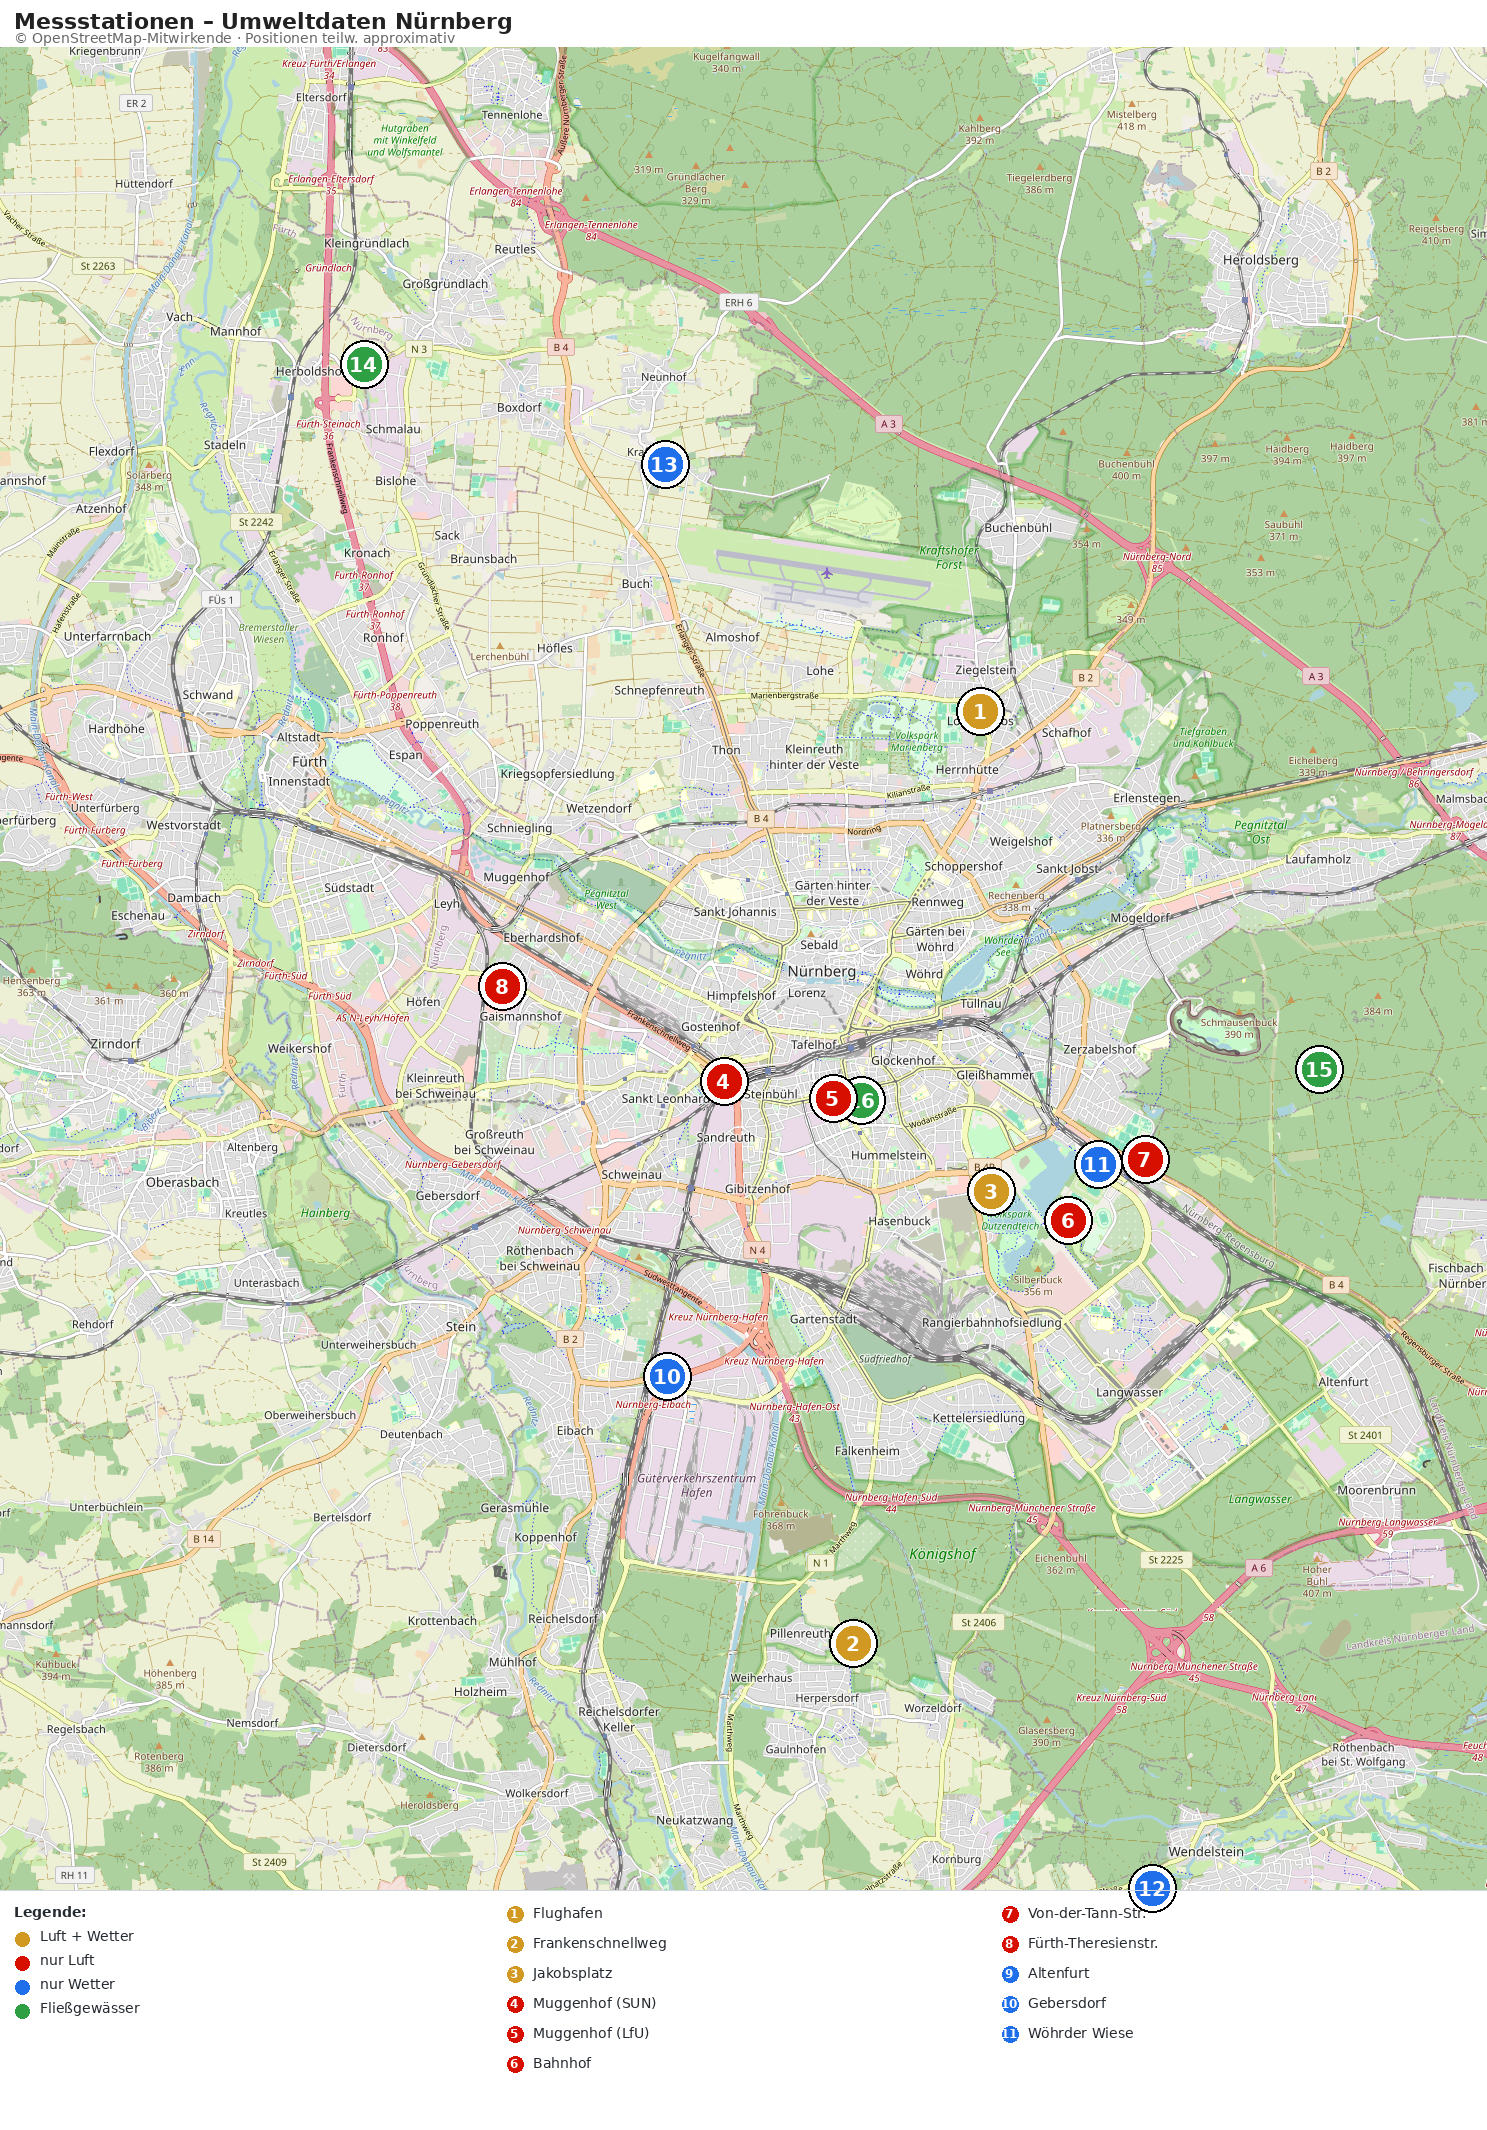
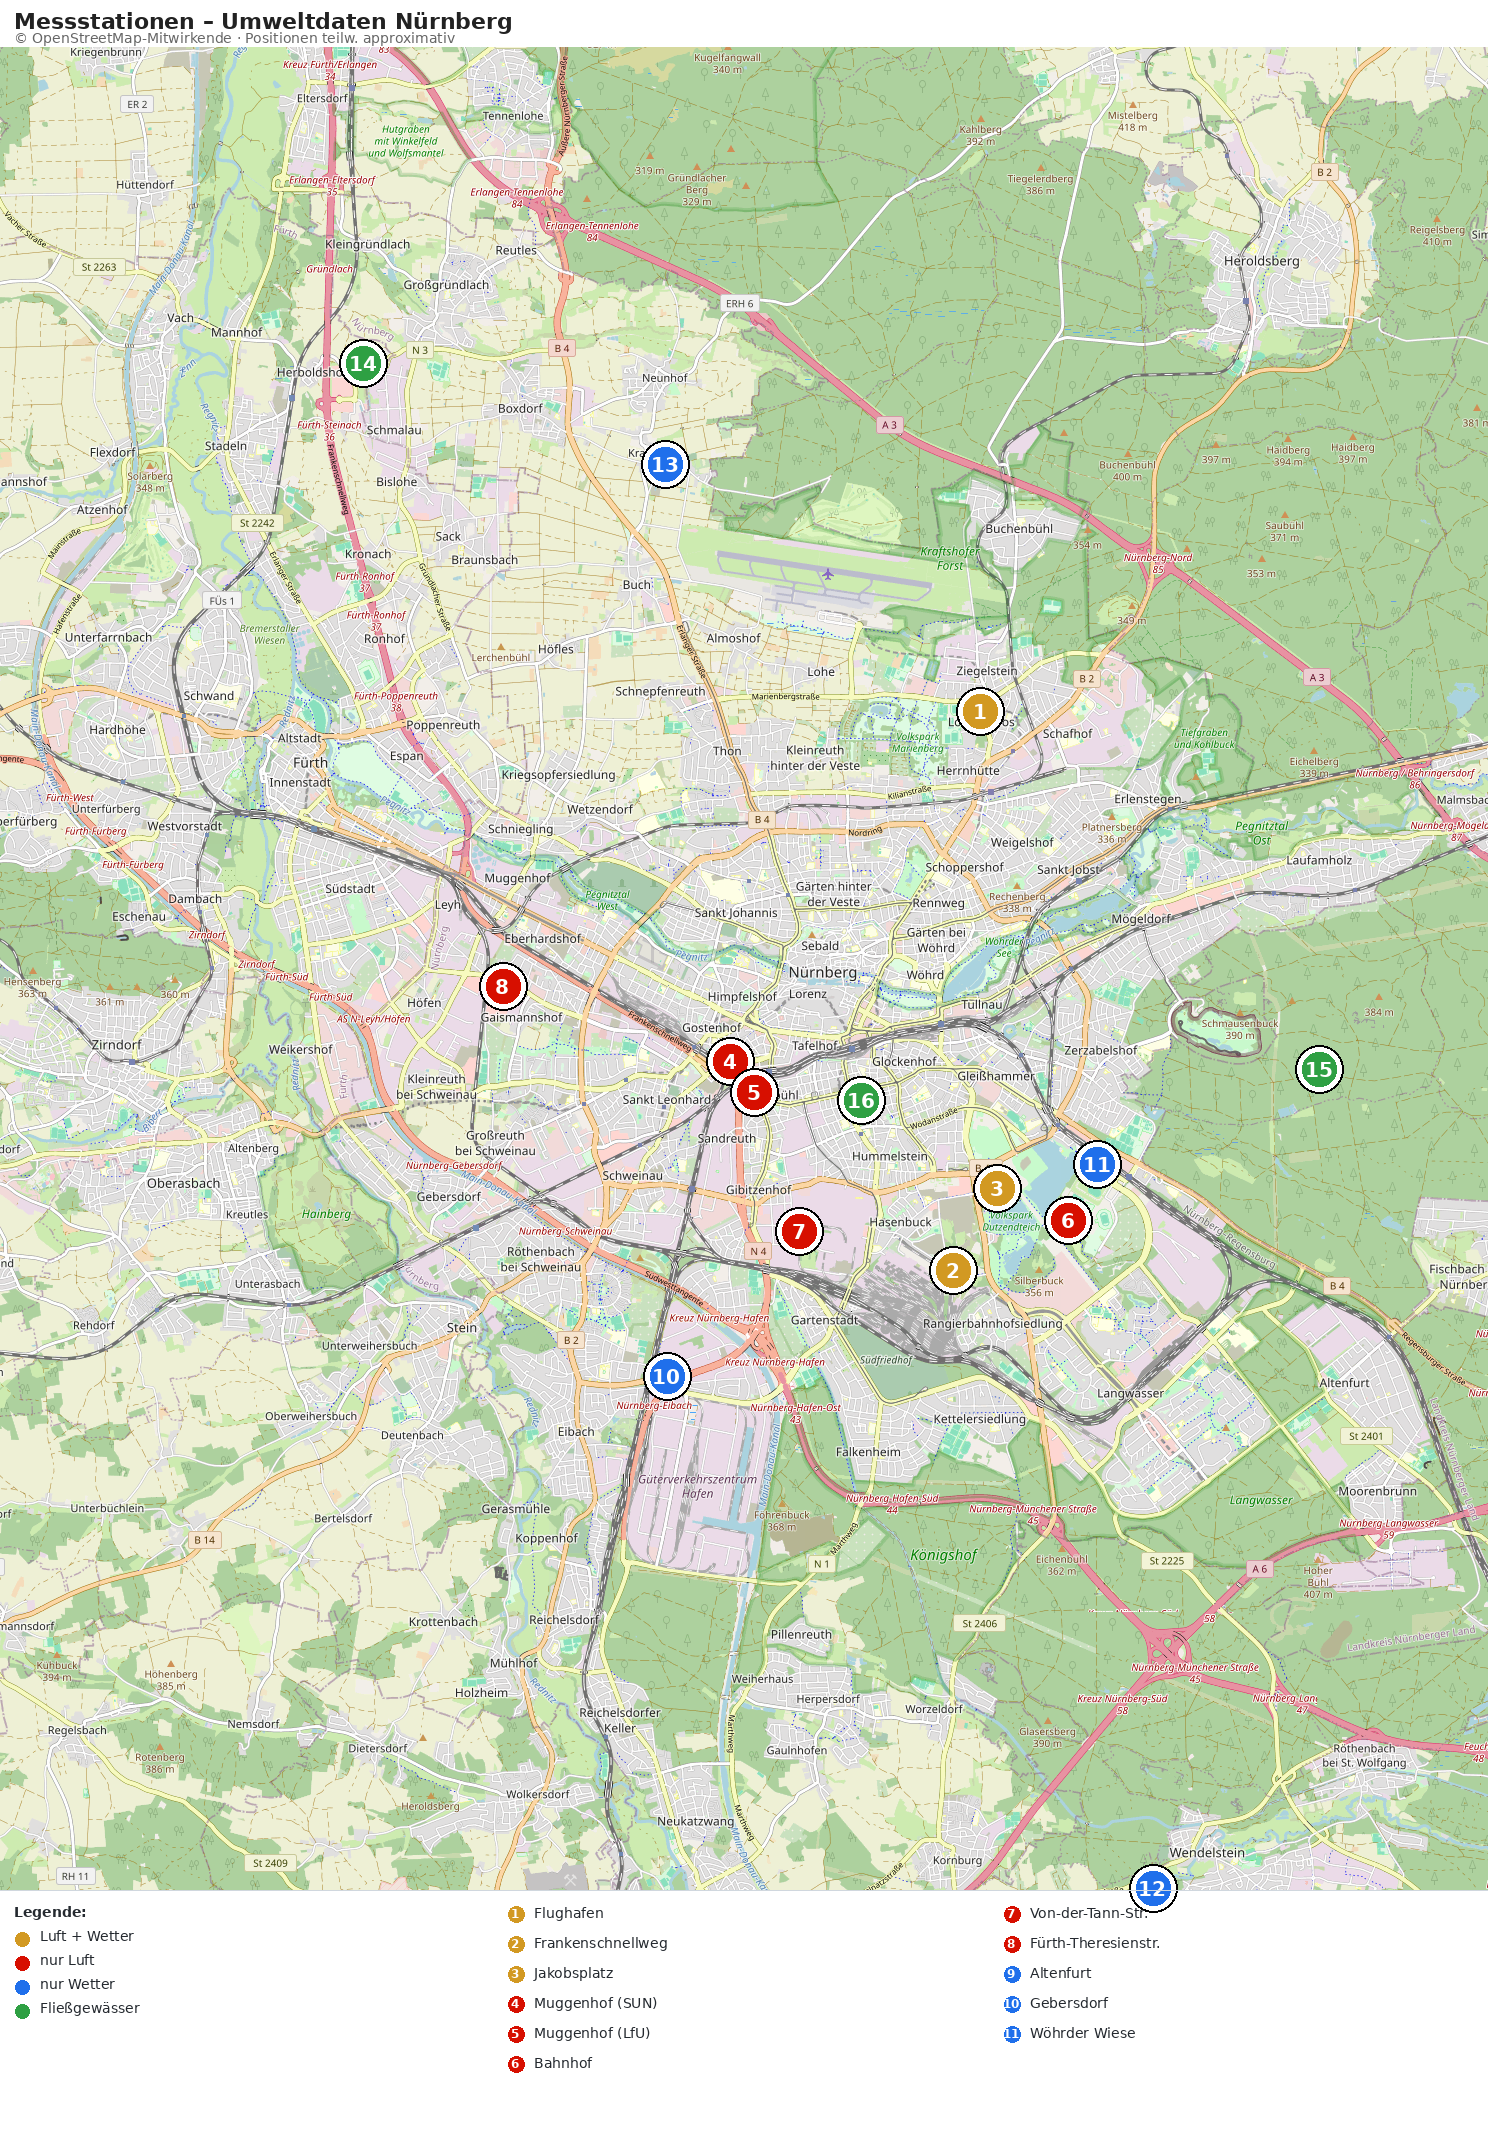
Docs: correct station coordinates and add official city layout plans
- Re-geocode stations via structured Nominatim queries; major fixes:
  Von-der-Tann-Str. (was misplaced east, actually west/Gaismannshof),
  Frankenschnellweg (was too far south), Muggenhof (now at SUN HQ
  Adolf-Braun-Str. 33).
- Regenerate the OSM map with the corrected coordinates.
- Add the two official station-layout JPEGs published by the City of
  Nuremberg (air + rain) as the authoritative position reference, linked
  from the README.

diff --git a/README.md b/README.md
@@ -38,6 +38,10 @@ Each sensor carries `last_measured` (the station's `date_entry`) and
   <img src="images/stations.png" alt="Übersicht der Messstationen in Nürnberg auf OpenStreetMap-Karte" width="720"/>
 </p>
 
+> Die Marker-Positionen sind teilweise approximativ (geocodiert). Die
+> autoritativen Lagepläne der Stadt Nürnberg finden sich unten im Abschnitt
+> *[Offizielle Lagepläne](#offizielle-lageplane)*.
+
 The table below shows which values each station currently provides. The
 integration creates exactly these sensors dynamically – `null` fields are
 skipped, so no "unknown" entities appear.
@@ -98,6 +102,20 @@ that website. There is no formal API contract, API key or rate-limit agreement;
 please use it fairly and do not poll more aggressively than necessary. The
 data itself is not covered by this repository's license and remains the property
 of the City of Nuremberg.
+
+## Offizielle Lagepläne
+
+Die Stadt Nürnberg veröffentlicht selbst schematische Pläne der Stationen.
+Diese sind die autoritative Quelle für die Standorte (Quelle:
+[nuernberg.de/internet/umweltdaten](https://www.nuernberg.de/internet/umweltdaten/),
+Stadtentwässerung und Umweltanalytik Nürnberg).
+
+<table align="center">
+  <tr>
+    <td align="center"><img src="images/stadt_lageplan_luft.jpg" alt="Lageplan Luftmessstationen (Stadt Nürnberg)" width="380"/><br><sub>Luftmessstationen (SUN &amp; LfU)</sub></td>
+    <td align="center"><img src="images/stadt_lageplan_regen.jpg" alt="Lageplan Regenmessstationen (Stadt Nürnberg)" width="380"/><br><sub>Wetter-/Niederschlagsstationen</sub></td>
+  </tr>
+</table>
 
 ## License
 